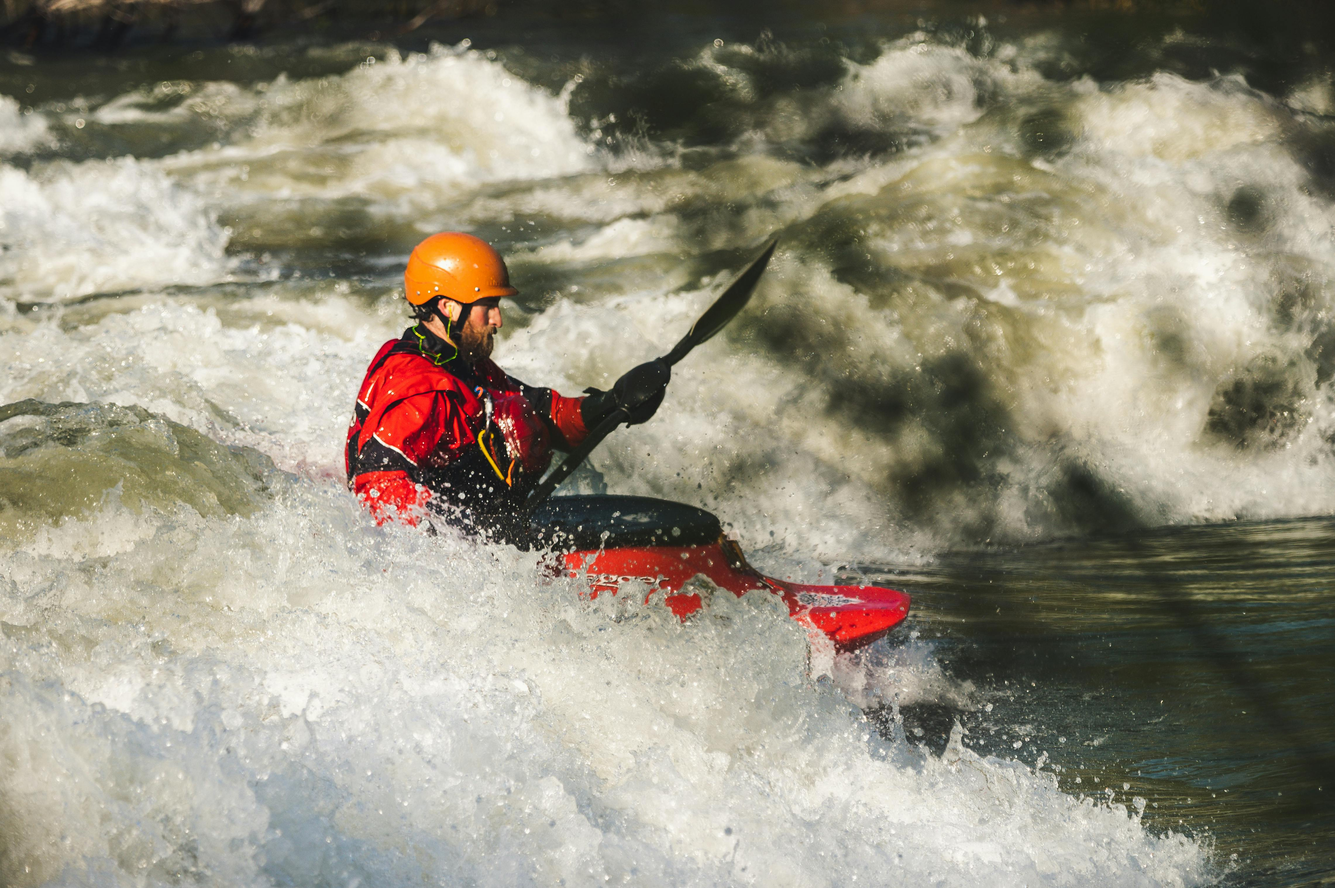
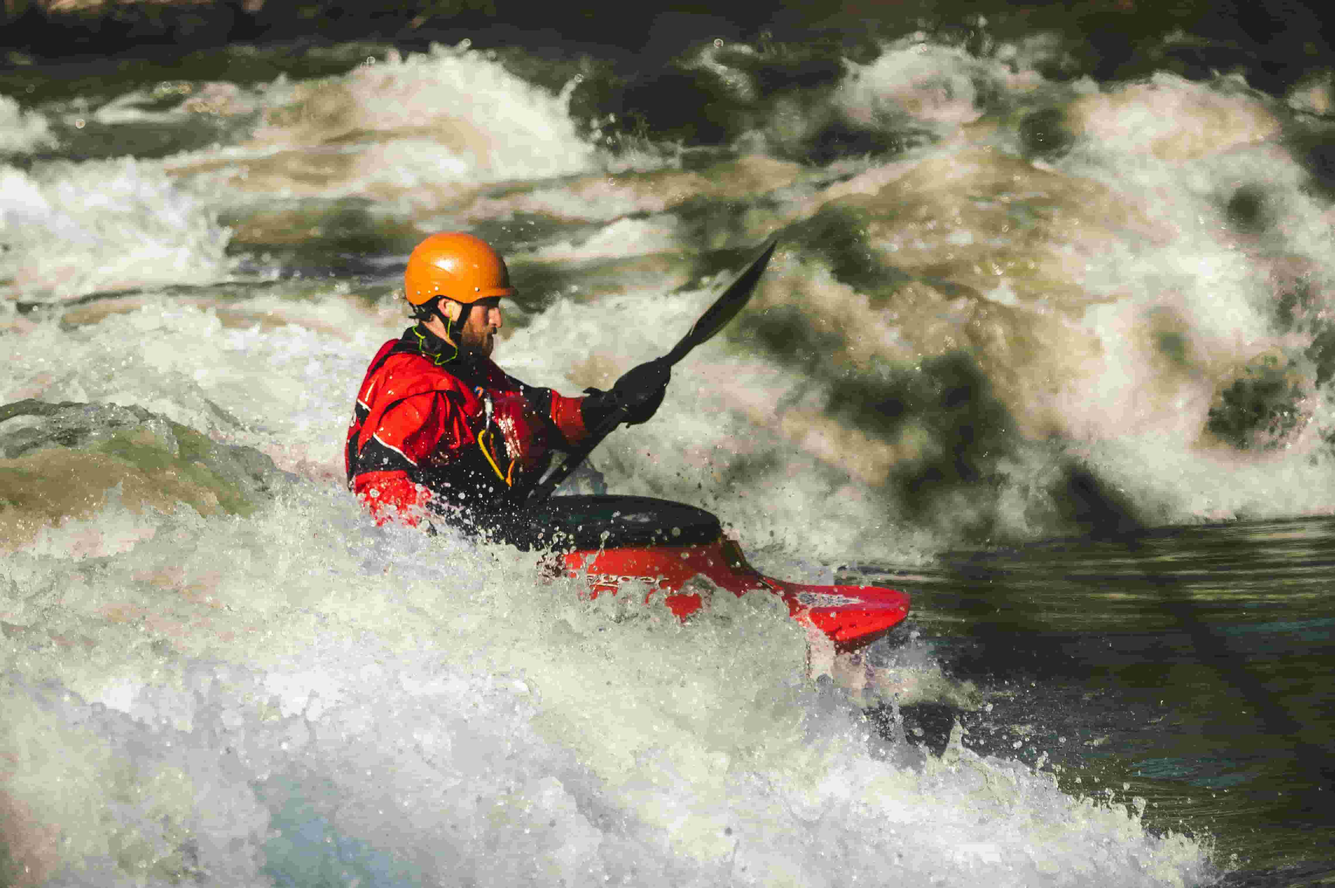
update contact link text and replace hero and client images

diff --git a/wwr/about.html b/wwr/about.html
@@ -18,7 +18,7 @@
             <a href="index.html">Home</a>
             <a href="about.html">About Us</a>
             <a href="trips.html">Trips</a>
-            <a href="contact.html">Contact</a>
+            <a href="contact.html">Contact Us</a>
         </nav>
     </header>
 
